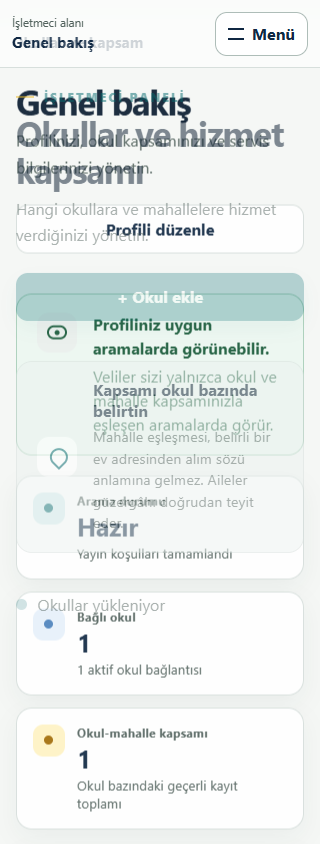
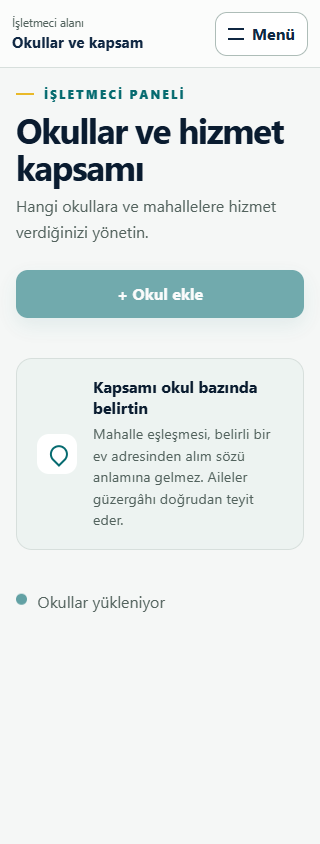
test(nav): capture schools loading evidence after the view transition settles (#326)
The 390px page-loading screenshot was taken mid-crossfade, blending the
outgoing overview snapshot with the incoming schools page. Screenshots now
wait for view-transition animations to finish, and the spec asserts a
single schools heading with the inline loader still visible afterwards.
No application code changed.

diff --git a/servisimibul-frontend/e2e/issue-326-route-pending.spec.ts b/servisimibul-frontend/e2e/issue-326-route-pending.spec.ts
@@ -95,8 +95,24 @@ async function watchBarMounts(page: Page) {
     page.evaluate(() => (window as unknown as { barMounts: number }).barMounts)
 }
 
+/** Waits until the route view-transition crossfade has finished. */
+async function settleViewTransition(page: Page) {
+  await page.waitForFunction(
+    () =>
+      !document
+        .getAnimations()
+        .some((animation) =>
+          String(
+            (animation.effect as KeyframeEffect | null)?.pseudoElement ?? '',
+          ).startsWith('::view-transition'),
+        ),
+  )
+}
+
 async function shoot(page: Page, name: string) {
   if (!screenshotDir) return
+  // Mid-crossfade frames show the old and new page blended together.
+  await settleViewTransition(page)
   await page.screenshot({ path: `${screenshotDir}/${name}.png` })
 }
 
@@ -131,6 +147,12 @@ for (const viewport of viewports) {
     await expect(
       page.getByRole('heading', { name: 'Okullar ve hizmet kapsamı' }),
     ).toBeFocused()
+    // Once the crossfade settles only the new page remains, still loading.
+    await settleViewTransition(page)
+    await expect(page.getByRole('heading', { level: 1 })).toHaveText([
+      'Okullar ve hizmet kapsamı',
+    ])
+    await expect(loading).toBeInViewport()
     await shoot(page, `schools-page-loading-${viewport.width}`)
 
     schools.release()
